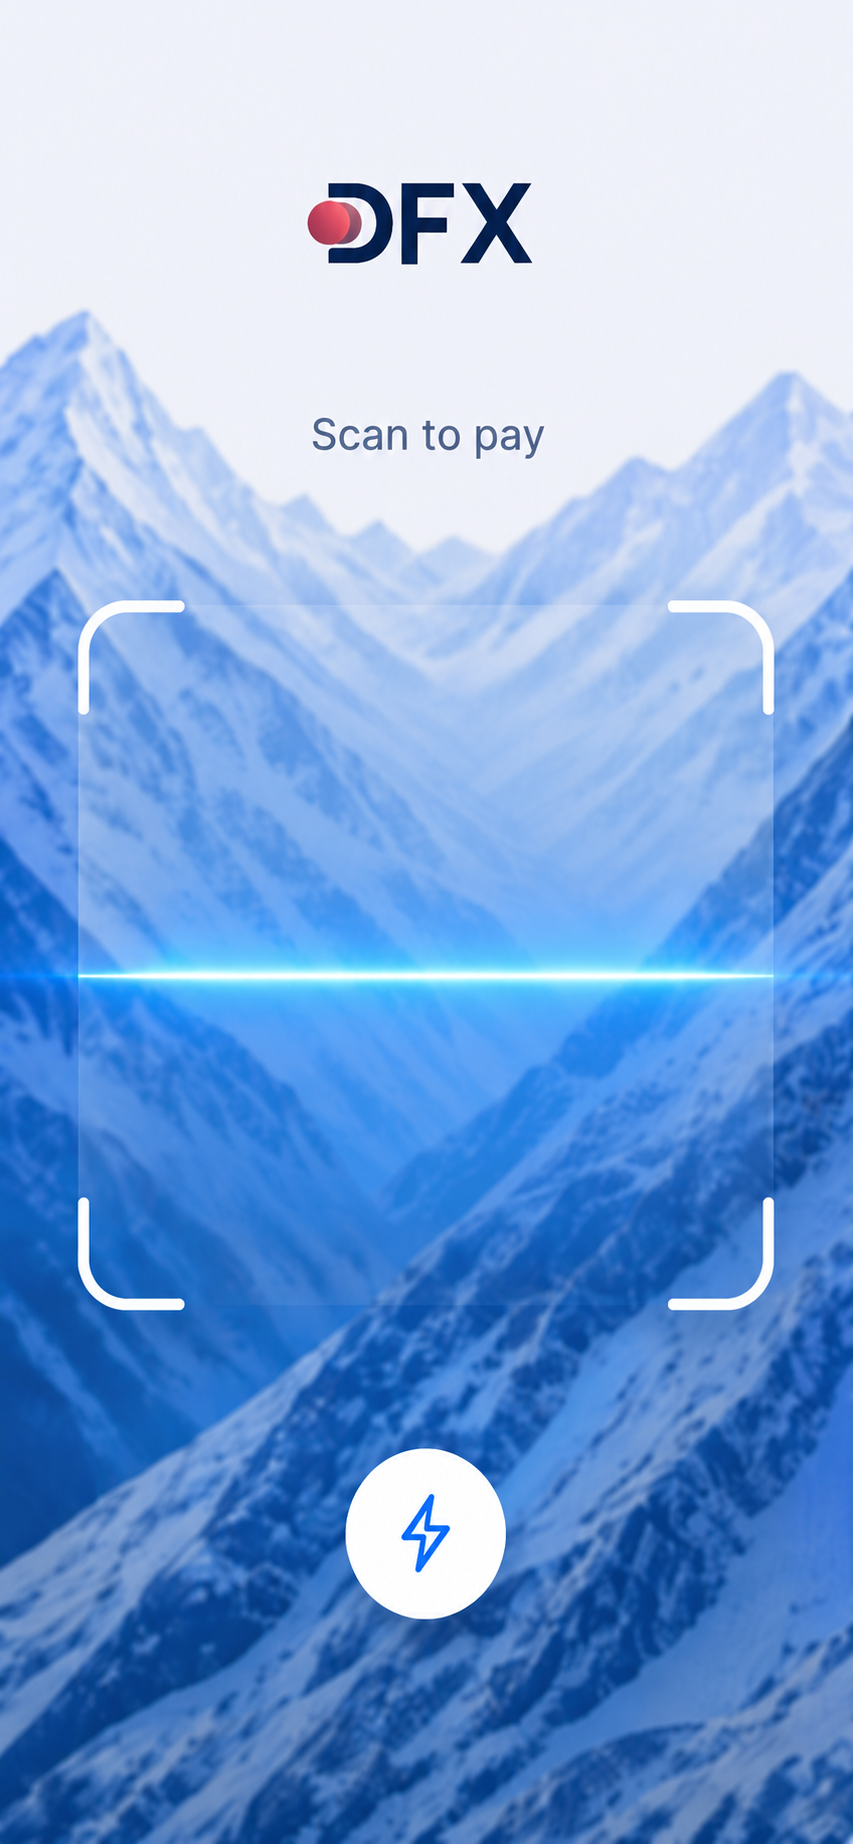
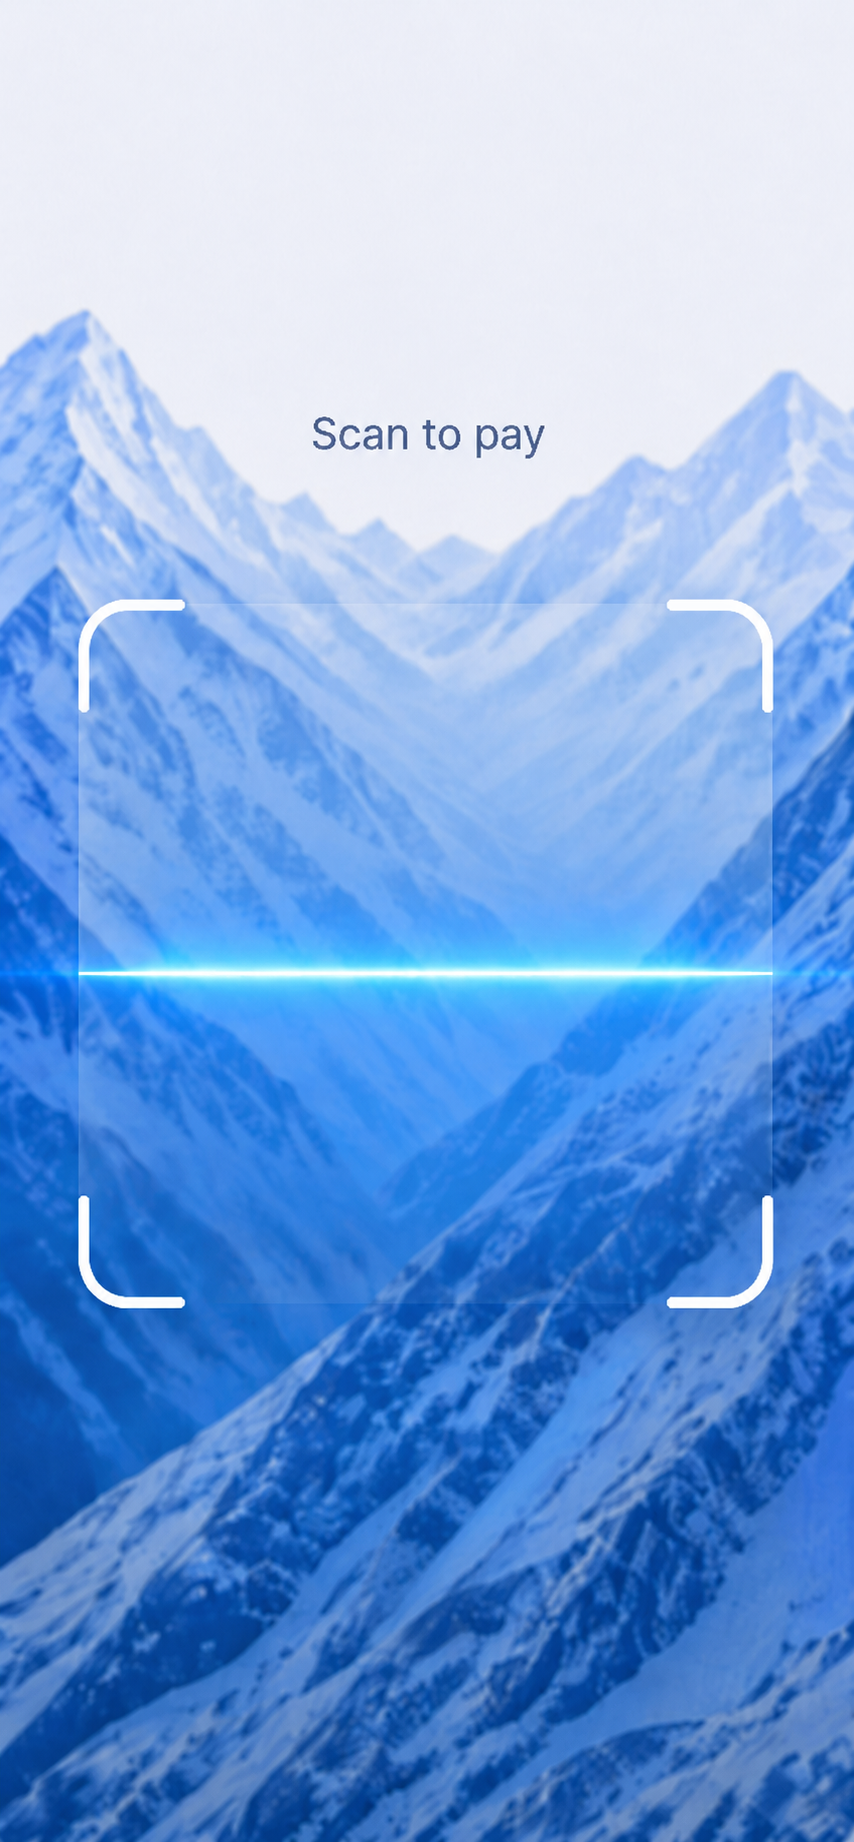
Pay screen polish: drop laser, enlarge frame, new background
- Replace assets/pay-bg.png with the dramatic mountain shot.
- Remove the animated laser line on the QR cutout — the background
  already carries a horizontal blue glow.
- Resize the QR frame from a fixed 280px to roughly the full screen
  width (capped at 360px) with larger 48px corner brackets, matching
  the latest mockup.

diff --git a/app/(auth)/pay/index.tsx b/app/(auth)/pay/index.tsx
@@ -1,5 +1,13 @@
-import { useEffect, useRef, useState } from 'react';
-import { Alert, Animated, ImageBackground, Pressable, StyleSheet, Text, View } from 'react-native';
+import { useEffect, useState } from 'react';
+import {
+  Alert,
+  Dimensions,
+  ImageBackground,
+  Pressable,
+  StyleSheet,
+  Text,
+  View,
+} from 'react-native';
 import { SafeAreaView } from 'react-native-safe-area-context';
 import { Stack, useRouter } from 'expo-router';
 import { useTranslation } from 'react-i18next';
@@ -7,10 +15,11 @@ import { CameraView, useCameraPermissions } from 'expo-camera';
 import { DashboardHeader, Icon, MenuModal } from '@/components';
 import { DfxColors, Typography } from '@/theme';
 
-const FRAME_SIZE = 280;
-const CORNER_SIZE = 36;
+const SCREEN_WIDTH = Dimensions.get('window').width;
+const FRAME_SIZE = Math.min(SCREEN_WIDTH - 48, 360);
+const CORNER_SIZE = 48;
 const CORNER_THICKNESS = 4;
-const CORNER_RADIUS = 16;
+const CORNER_RADIUS = 24;
 
 export default function PayScreen() {
   const router = useRouter();
@@ -18,22 +27,10 @@ export default function PayScreen() {
   const [permission, requestPermission] = useCameraPermissions();
   const [scanned, setScanned] = useState(false);
   const [menuOpen, setMenuOpen] = useState(false);
-  const laserAnim = useRef(new Animated.Value(0)).current;
 
   useEffect(() => {
     if (!permission?.granted) void requestPermission();
   }, [permission, requestPermission]);
-
-  useEffect(() => {
-    const loop = Animated.loop(
-      Animated.sequence([
-        Animated.timing(laserAnim, { toValue: 1, duration: 1600, useNativeDriver: true }),
-        Animated.timing(laserAnim, { toValue: 0, duration: 1600, useNativeDriver: true }),
-      ]),
-    );
-    loop.start();
-    return () => loop.stop();
-  }, [laserAnim]);
 
   const handleScan = ({ data }: { data: string }) => {
     if (scanned) return;
@@ -42,11 +39,6 @@ export default function PayScreen() {
       { text: t('common.ok'), onPress: () => router.back() },
     ]);
   };
-
-  const laserY = laserAnim.interpolate({
-    inputRange: [0, 1],
-    outputRange: [12, FRAME_SIZE - 12],
-  });
 
   return (
     <>
@@ -82,13 +74,6 @@ export default function PayScreen() {
               <View pointerEvents="none" style={[styles.corner, styles.cornerTR]} />
               <View pointerEvents="none" style={[styles.corner, styles.cornerBL]} />
               <View pointerEvents="none" style={[styles.corner, styles.cornerBR]} />
-
-              {permission?.granted && (
-                <Animated.View
-                  pointerEvents="none"
-                  style={[styles.laser, { transform: [{ translateY: laserY }] }]}
-                />
-              )}
             </View>
           </View>
 
@@ -172,17 +157,6 @@ const styles = StyleSheet.create({
     borderBottomWidth: CORNER_THICKNESS,
     borderRightWidth: CORNER_THICKNESS,
     borderBottomRightRadius: CORNER_RADIUS,
-  },
-  laser: {
-    position: 'absolute',
-    left: 16,
-    right: 16,
-    height: 2,
-    backgroundColor: DfxColors.primary,
-    shadowColor: DfxColors.primary,
-    shadowOpacity: 0.9,
-    shadowRadius: 12,
-    shadowOffset: { width: 0, height: 0 },
   },
   permissionFallback: {
     flex: 1,
